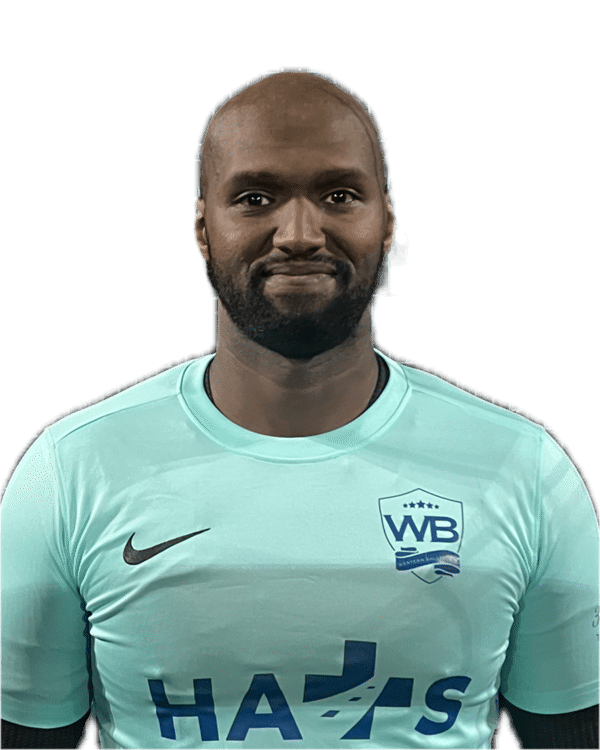
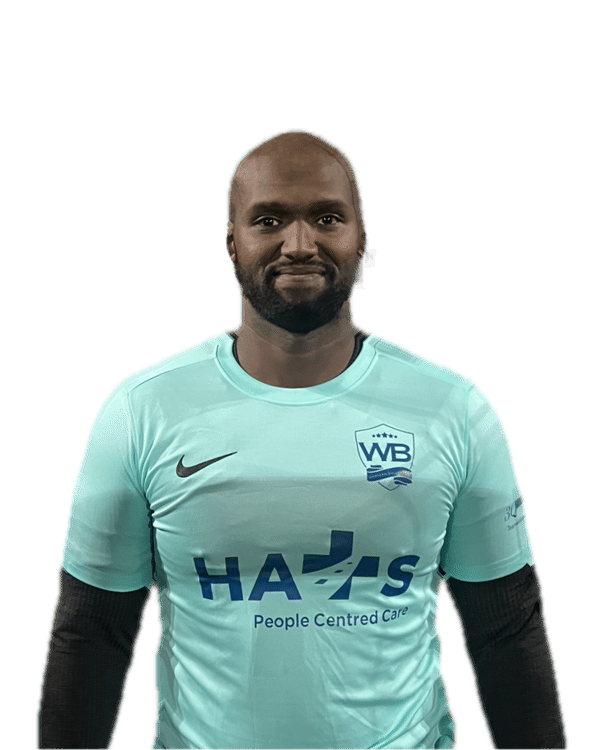
squad: Arsenal-style framing, clean cut-out edges

diff --git a/squad/squad.css b/squad/squad.css
@@ -1,5 +1,6 @@
 /* Squad page only. Uses the site tokens and fonts from assets/issue.css (loaded first). */
-.sq{max-width:var(--page);margin:0 auto;padding:0 var(--gutter) var(--s6)}
+.sq{max-width:var(--page);margin:0 auto;padding:0 var(--gutter) var(--s6);
+  --squad-card-bg:linear-gradient(90deg,#ECEDEF 0%,#C3C6CB 100%)} /* card and profile background; the one line to change for another theme */
 .sq-head{padding-top:var(--s4)}
 .sq-head h1{margin-top:var(--s2);font-family:var(--serif);font-weight:700;font-size:40px;line-height:1.04;letter-spacing:-.025em}
 .sq-head .standfirst{margin-top:var(--s2);max-width:36em}
@@ -13,9 +14,9 @@
 
 /* ---------- card: light grey gradient, cut-out bottom-right with a soft shadow, name left, orange base line ---------- */
 .sq-card{position:relative;isolation:isolate;display:flex;align-items:flex-end;min-height:240px;overflow:hidden;padding:var(--s3) var(--s2) var(--s2);
-  background:linear-gradient(90deg,#ECEDEF 0%,#C3C6CB 100%);
+  background:var(--squad-card-bg);
   border-bottom:3px solid var(--wb);color:#111;text-decoration:none;touch-action:manipulation;-webkit-tap-highlight-color:transparent}
-.sq-img{position:absolute;z-index:-2;right:-6%;bottom:0;height:100%;width:auto;max-width:none;transform-origin:50% 100%;transition:transform .4s var(--ease);
+.sq-img{position:absolute;z-index:-2;right:4%;bottom:0;height:100%;width:auto;max-width:none;object-fit:contain;transform-origin:50% 100%;transition:transform .4s var(--ease);
   filter:drop-shadow(8px 4px 14px rgba(0,0,0,.25))}
 .sq-txt{display:flex;flex-direction:column;max-width:60%}
 .sq-name{font-weight:800;font-stretch:87.5%;font-size:32px;line-height:.95;letter-spacing:-.01em;text-transform:uppercase;overflow-wrap:anywhere}
@@ -28,9 +29,9 @@
 .sq-profile{padding-top:var(--s3)}
 .sq-back{display:inline-flex;align-items:center;min-height:44px;font-size:12px;font-weight:800;font-stretch:87.5%;letter-spacing:.12em;text-transform:uppercase;text-decoration:none;color:var(--wb-text)}
 .sq-hero{position:relative;isolation:isolate;display:grid;grid-template-columns:minmax(0,1fr) minmax(0,1fr);align-items:end;min-height:380px;margin:var(--s1) calc(var(--gutter) * -1) 0;overflow:hidden;
-  background:linear-gradient(90deg,#ECEDEF 0%,#C3C6CB 100%);
+  background:var(--squad-card-bg);
   border-bottom:3px solid var(--wb);color:#111}
-.sq-hero-img{grid-column:2;grid-row:1;z-index:-2;justify-self:end;align-self:end;height:380px;width:auto;max-width:none;margin-right:-12%;
+.sq-hero-img{position:absolute;z-index:-2;right:4%;bottom:0;height:100%;width:auto;max-width:none;object-fit:contain;
   filter:drop-shadow(8px 4px 14px rgba(0,0,0,.25))}
 .sq-hero-txt{grid-column:1;grid-row:1;position:relative;z-index:1;padding:var(--s4) 0 var(--s3) var(--gutter);width:150%} /* the name may run over the photo */
 .sq-hero-kick{font-size:12px;font-weight:800;font-stretch:87.5%;letter-spacing:.12em;text-transform:uppercase;color:var(--wb-text)}
@@ -53,7 +54,6 @@
 @media (min-width:600px){
   .sq-grid{grid-template-columns:repeat(2,minmax(0,1fr))}
   .sq-hero{margin-left:0;margin-right:0;min-height:440px}
-  .sq-hero-img{height:440px;margin-right:0}
   .sq-hero-txt{padding-left:var(--s5)}
   .sq-tiles{grid-template-columns:repeat(3,minmax(0,1fr))} /* Position, Place of Birth, Signed for WB in one row; Fun Fact below */
   .sq-tile:nth-child(3){grid-column:auto}
@@ -63,7 +63,6 @@
   .sq-grid{grid-template-columns:repeat(3,minmax(0,1fr));gap:var(--s3)}
   .sq-card{min-height:300px}
   .sq-hero{min-height:520px}
-  .sq-hero-img{height:520px}
   .sq-tiles{gap:var(--s2)}
 }
 @media (prefers-reduced-motion:reduce){
